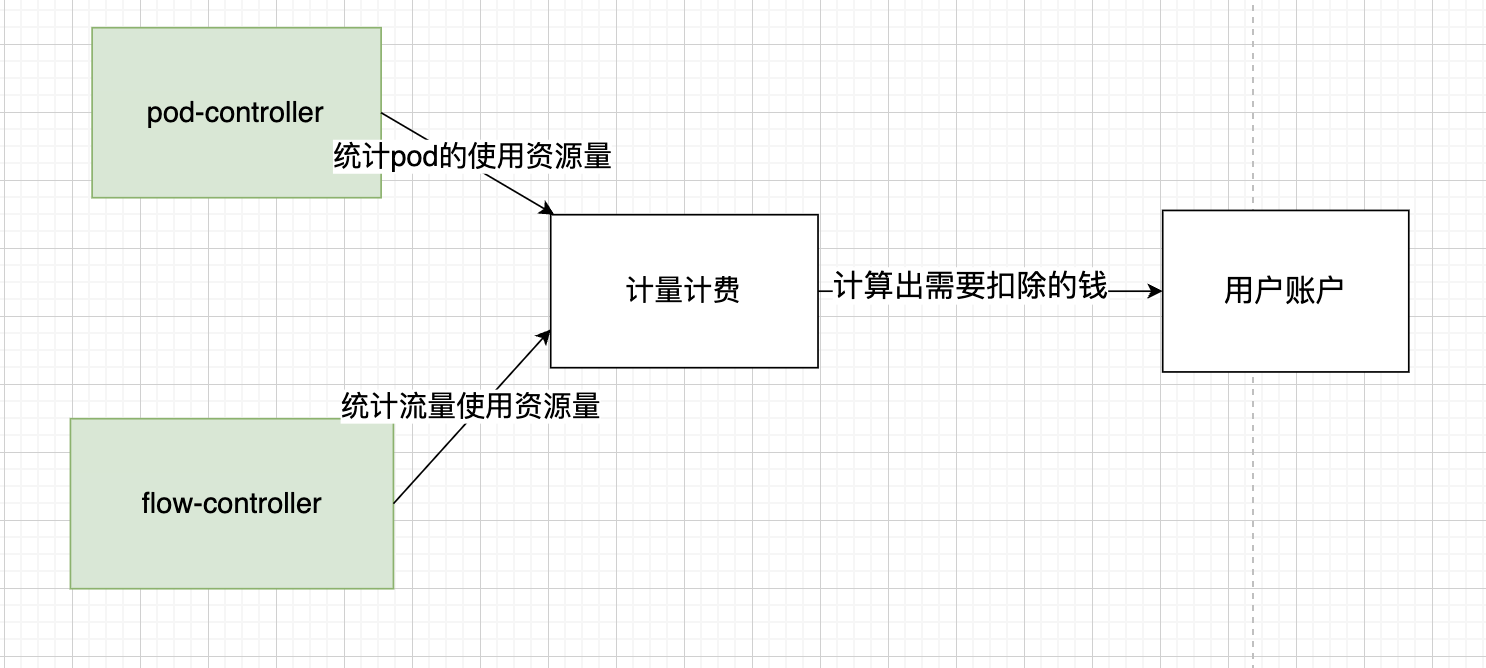
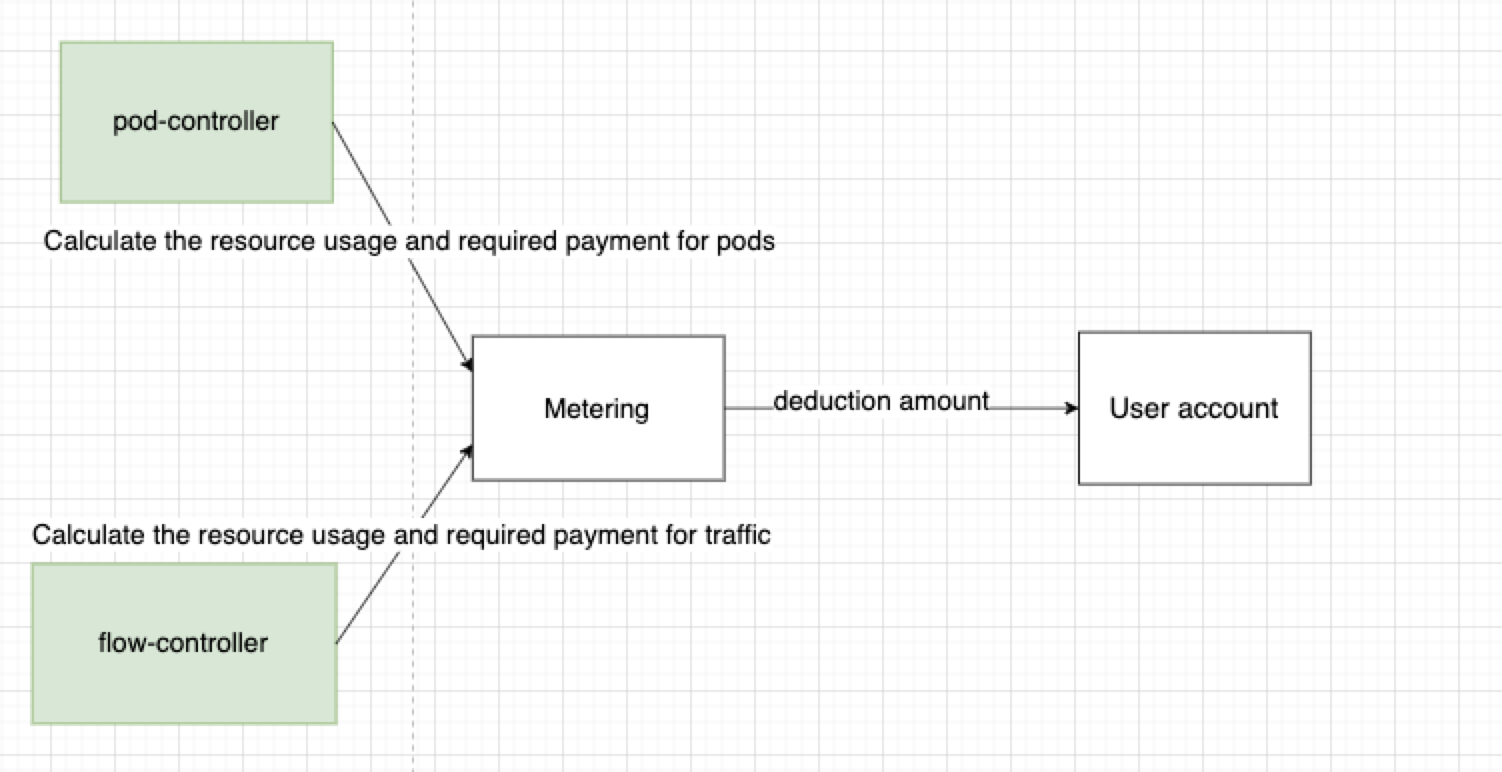
🔄 Synced file(s) with labring/sealos

diff --git a/docs/design/metering-design.md b/docs/design/metering-design.md
@@ -1,0 +1,56 @@
+# Metering Design Documentation
+
+## **1、Background**
+
+    sealos cloud is a multi-tenant cloud operating system with k8s as the core. Each user has at least one namespace of his own to use, which brings challenges to billing. How to bill the cpu, memory and other resources used by users in k8s? How about billing traffic and other resources that are not visible to Metering.
+
+## 2、Scenarios that need to be met
+
+1. Metering and billing the cpu, memory and other resources of the pod being used
+2. It can measure third-party resources (such as traffic) that Metering cannot perceive, and requires a resource access solution
+3. Each controller needs to be idempotent
+4. In case of emergencies, such as the Meterng-controller being hung up for 2 days, can the price deducted in these two days be restored normally
+
+## 3、design ideas
+
+### 3.1、Introduction of each module
+
+Resource Controller: Statistical resource usage
+
+Metering system: Calculate the price once in a billing cycle based on the statistical resource usage and the price list, let the user account deduct the money, and clear the statistical resource usage.
+
+<img src="/docs/4.0/img/metering/metering-1.png" width="600px" height="300px" />
+
+### 3.2、metering and billing process
+
+3.2.1 Resource controller statistics process
+
+<img src="/docs/4.0/img/metering/metering-2.png" width="600px" height="400px" />
+
+3.2.2 The metering and billing system calculates the price based on the usage
+
+    The pricing will be calculated once within a billing cycle, and the resource usage within the measurement-based billing will be cleared. Finally, the required payment will be deducted from the user's account
+
+<img src="/docs/4.0/img/metering/metering-3.png" width="600px" height="300px" />
+
+## 4、the problems encountered
+
+A controller needs to update multiple cr at the same time, so it cannot be idempotent
+
+Detailed introduction: https://github.com/labring/sealos/discussions/2231
+
+#### solution:
+
+**Principle: Only one controller update per CR**
+
+![](/docs/4.0/img/metering/metering-4.png)
+
+Green represents the controller, and blue represents CR (that is, the instantiation of CRD)
+
+1. The pod-controller statistical resource process: After the pod-controller counts the resource usage, it no longer changes the existing CR, but creates a Resource CR, which includes the resource usage and payable amount.
+
+2. Metering-controller measurement process: watch Resource is generated, and the resource usage value will be put into the CR of Metering after generation.
+
+3. Metering-controller billing process: After a billing cycle, according to the resource usage and payable amount counted in Metering CR, an AccountBalance CR is generated, which stores the amount to be deducted.
+
+4. Deduction process: Account monitors the generation of Accountbalance CR, reads the value that needs to be deducted, and deducts the fee.

diff --git a/docs/getting-started/kuberentes-support.md b/docs/getting-started/kuberentes-support.md
@@ -5,20 +5,20 @@ sidebar_position: 5
 # Kubernetes Support For containerd (k8s version >=1.18.0)
 
 
-| k8s version | sealos version | cri version | image version                                                 |
-|-------------|----------------|-------------|---------------------------------------------------------------|
-| `<1.25`     | `>=v4.0.0`     | v1alpha2    | labring/kubernetes:v1.24.0                                    |
-| `>=1.25`    | `>=v4.1.0`     | v1alpha2    | labring/kubernetes:v1.25.0                                    |
-| `>=1.26`    | `>=v4.1.4-rc3` | v1          | labring/kubernetes:v1.26 |
-
+| k8s version | sealos version    | cri version | image version              |
+|-------------|-------------------|-------------|----------------------------|
+| `<1.25`     | `>=v4.0.0`        | v1alpha2    | labring/kubernetes:v1.24.0 |
+| `>=1.25`    | `>=v4.1.0`        | v1alpha2    | labring/kubernetes:v1.25.0 |
+| `>=1.26`    | `>=v4.1.4-rc3`    | v1          | labring/kubernetes:v1.26   |
+| `>=1.27`    | `>=v4.2.0-alpha3` | v1          | labring/kubernetes:v1.27   |
 # Kubernetes Support For docker (k8s version >=1.18.0)
 
-| k8s version | sealos version | cri version | image version                                                               |
-|-------------|----------------|-------------|-----------------------------------------------------------------------------|
-| `<1.25`     | `>=v4.0.0`     | v1alpha2    | labring/kubernetes-docker:v1.24.0                                           |
-| `>=1.25`    | `>=v4.1.0`     | v1alpha2    | labring/kubernetes-docker:v1.25.0                                           |
-| `>=1.26`    | `>=v4.1.4-rc3` | v1          | labring/kubernetes-docker:v1.26 |
-
+| k8s version | sealos version | cri version | image version                     |
+|-------------|----------------|-------------|-----------------------------------|
+| `<1.25`     | `>=v4.0.0`     | v1alpha2    | labring/kubernetes-docker:v1.24.0 |
+| `>=1.25`    | `>=v4.1.0`     | v1alpha2    | labring/kubernetes-docker:v1.25.0 |
+| `>=1.26`    | `>=v4.1.4-rc3` | v1          | labring/kubernetes-docker:v1.26   |
+| `>=1.27`    | `>=v4.2.0-alpha3` | v1          | labring/kubernetes-docker:v1.27   |
 
 # [Changelogs](https://github.com/labring/sealos/blob/main/CHANGELOG/CHANGELOG.md)
 
